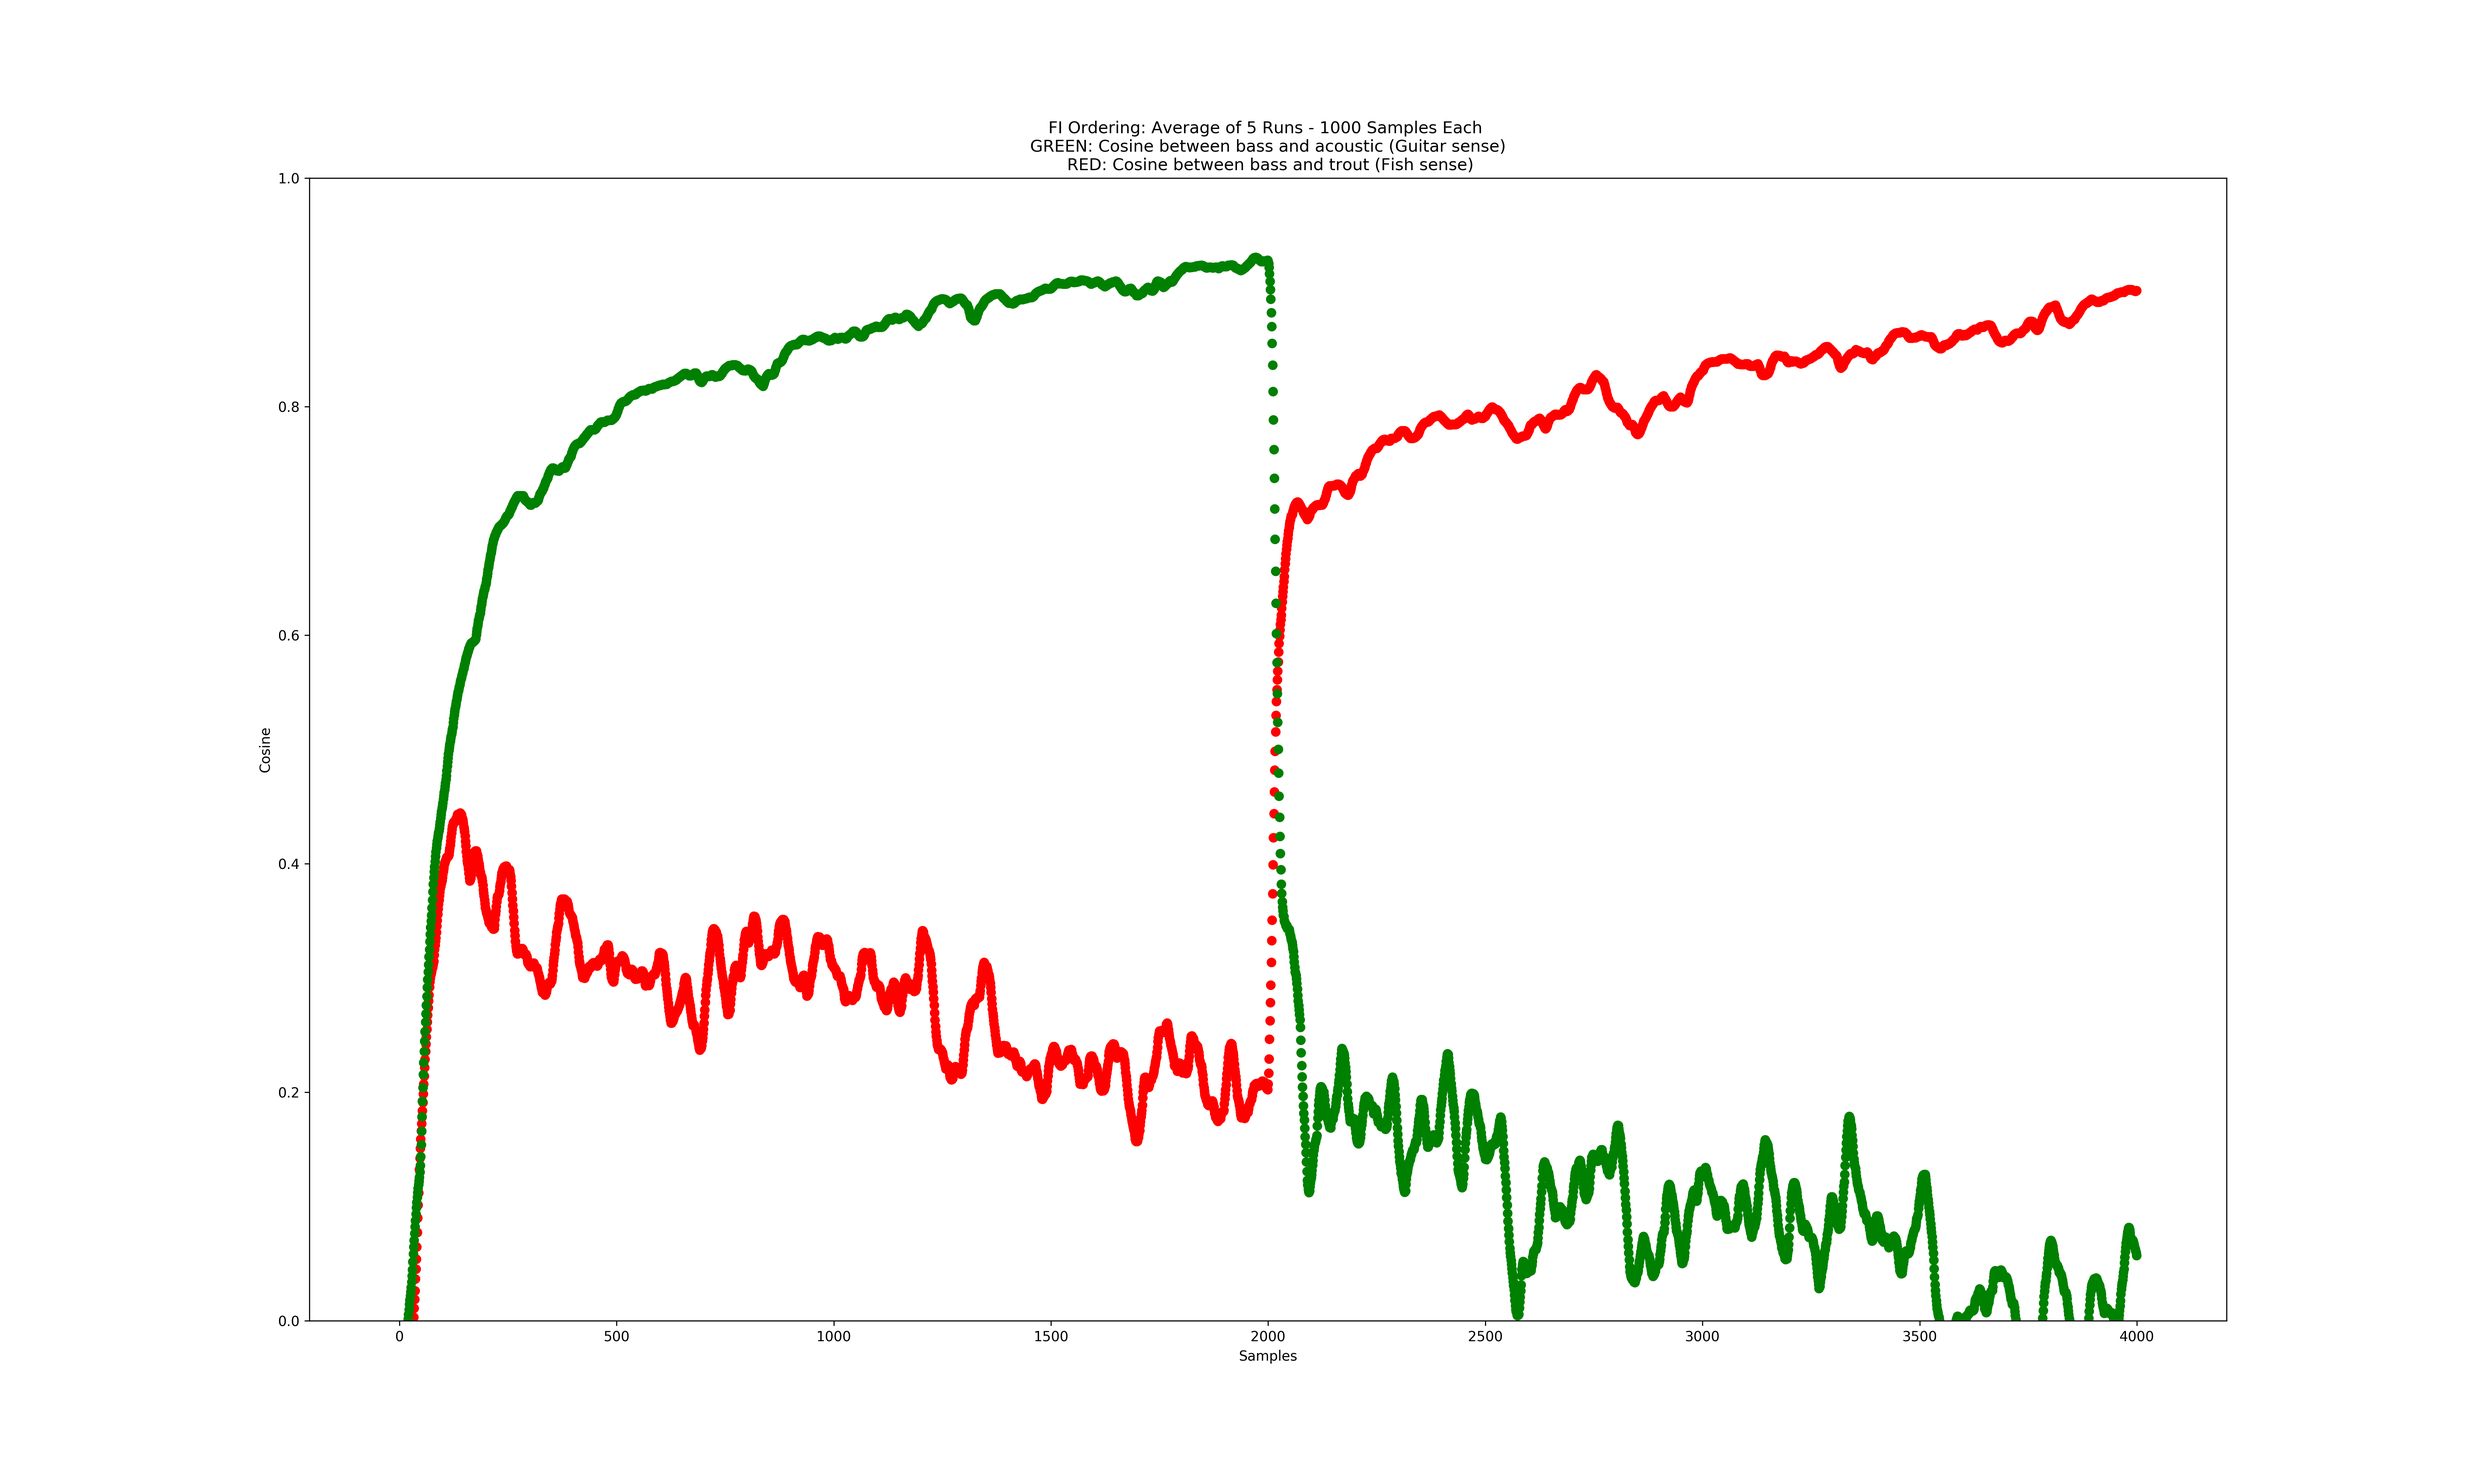
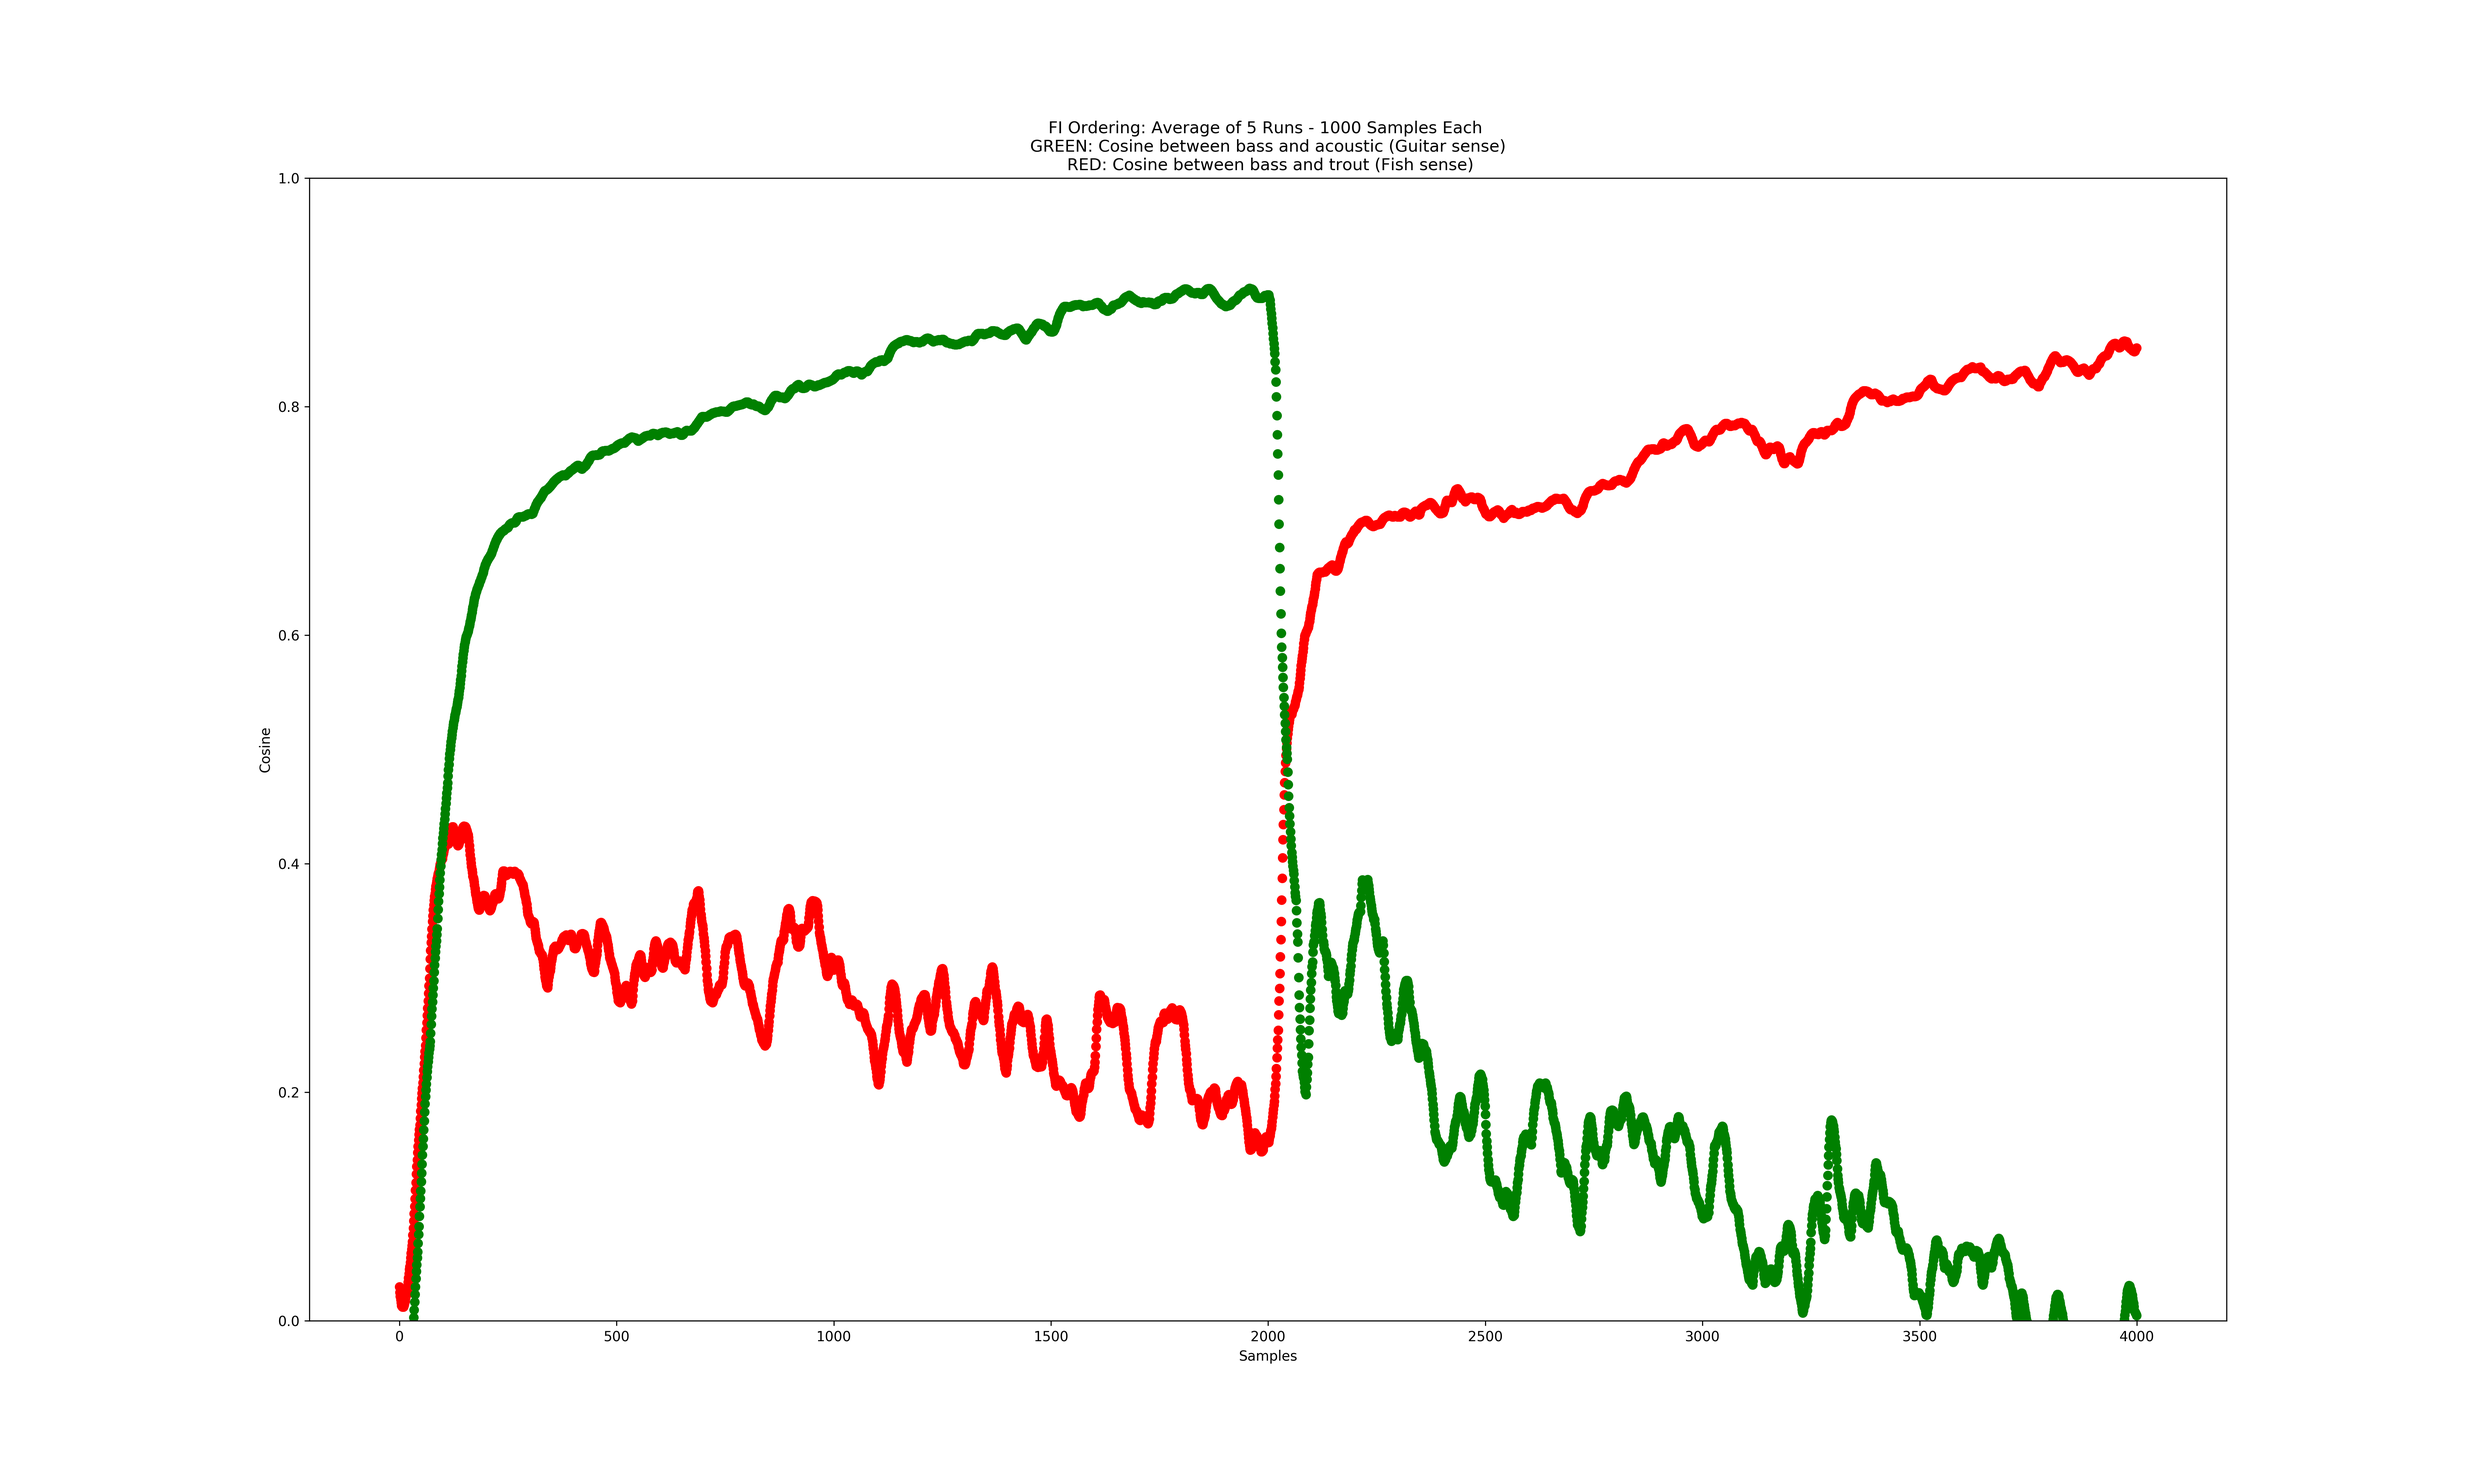
init

diff --git a/W2V-CI-EWC/w2v-ci_pTF_kedit/graphs_tensorflow_code.py b/W2V-CI-EWC/w2v-ci_pTF_kedit/graphs_tensorflow_code.py
@@ -50,12 +50,6 @@ for v in range(0, len(vocab)):
     word_to_index[vocab[v]] = v
     index_to_word[v] = vocab[v]
 
-print()
-print('word_to_index')
-print(word_to_index)
-print('index_to_word')
-print(index_to_word)
-
 
 # Define similarity matrix
 tot_dict, sim_dict1 = defaultdict(dict), defaultdict(dict)
@@ -63,7 +57,7 @@ for v in vocab:
     for ve in vocab:
         tot_dict[v][ve] = 0.
 #        sim_dict1[v][ve] = 0.
-print('/ntot_dict')
+print('\ntot_dict')
 print(tot_dict)
 
 tot_bass_trout = []
@@ -72,30 +66,31 @@ tot_bass_acoustic = []
 # define network
 num_runs = 5
 embedding_size = 10
+print("Embeddings size = {}x{}".format(len(vocab), embedding_size))
+
 for i in range(0, num_runs):
-    print (i)
-    tf.reset_default_graph()
-    embeddings = tf.Variable(tf.random_uniform([len(vocab), embedding_size], -1.0, 1.0))
+    print('Run {}...'.format(i))
     
-    nce_weights = tf.Variable(tf.truncated_normal([len(vocab), embedding_size], stddev = 1.0/np.sqrt(embedding_size)))
+    tf.reset_default_graph() 
+    embeddings = tf.Variable(tf.random_uniform([len(vocab), embedding_size], -1.0, 1.0)) # 5 X 10
+    
+    nce_weights = tf.Variable(tf.truncated_normal([len(vocab), embedding_size], stddev=1.0/np.sqrt(embedding_size)))
     nce_biases = tf.Variable(tf.zeros([5]))
     
-    train_inputs = tf.placeholder(tf.int32, shape = [1])
-    train_labels = tf.placeholder(tf.int32, shape = [1, 1])
+    train_inputs = tf.placeholder(tf.int32, shape=[1])
+    train_labels = tf.placeholder(tf.int32, shape=[1,1])
     
     embed = tf.nn.embedding_lookup(embeddings, train_inputs)
     #out_embed = tf.nn.embedding_lookup(nce_weights, train_inputs)
     
-    loss = tf.reduce_mean(
-            tf.nn.nce_loss(weights= nce_weights,
-                           biases= nce_biases,
-                           labels = train_labels,
-                           inputs = embed,
-                           num_sampled= 1,
-                           num_classes= len(vocab))
-            )
+    loss = tf.reduce_mean(tf.nn.nce_loss(weights=nce_weights,
+                           biases=nce_biases,
+                           labels=train_labels,
+                           inputs=embed,
+                           num_sampled=1,
+                           num_classes=len(vocab)))
     
-    optimizer = tf.train.AdamOptimizer(learning_rate = 0.02).minimize(loss)
+    optimizer = tf.train.AdamOptimizer(learning_rate=0.02).minimize(loss)
     #optimizer = tf.train.GradientDescentOptimizer(learning_rate=1.0).minimize(loss)
     
 #    np.random.shuffle(total_corpus)

diff --git a/W2V-CI-EWC/w2v-ci_pTF_kedit/simmatrix_tensorflow_code.py b/W2V-CI-EWC/w2v-ci_pTF_kedit/simmatrix_tensorflow_code.py
@@ -91,14 +91,14 @@ for i in range(0, num_runs):
 
 
     # reset graph at every run
-    print (i)
+    print(i)
     tf.reset_default_graph()
     
     # embedding matrix
-    embeddings = tf.Variable(tf.random_uniform([len(vocab), embedding_size], -1.0, 1.0, seed = i))
+    embeddings = tf.Variable(tf.random_uniform([len(vocab), embedding_size], -1.0, 1.0, seed=i))
     
     # weight matrix
-    nce_weights = tf.Variable(tf.truncated_normal([len(vocab), embedding_size], stddev = 1.0/np.sqrt(embedding_size), seed = i))
+    nce_weights = tf.Variable(tf.truncated_normal([len(vocab), embedding_size], stddev=1.0/np.sqrt(embedding_size), seed=i))
     nce_biases = tf.Variable(tf.zeros([len(vocab)]))
     
     # input and output placeholders
